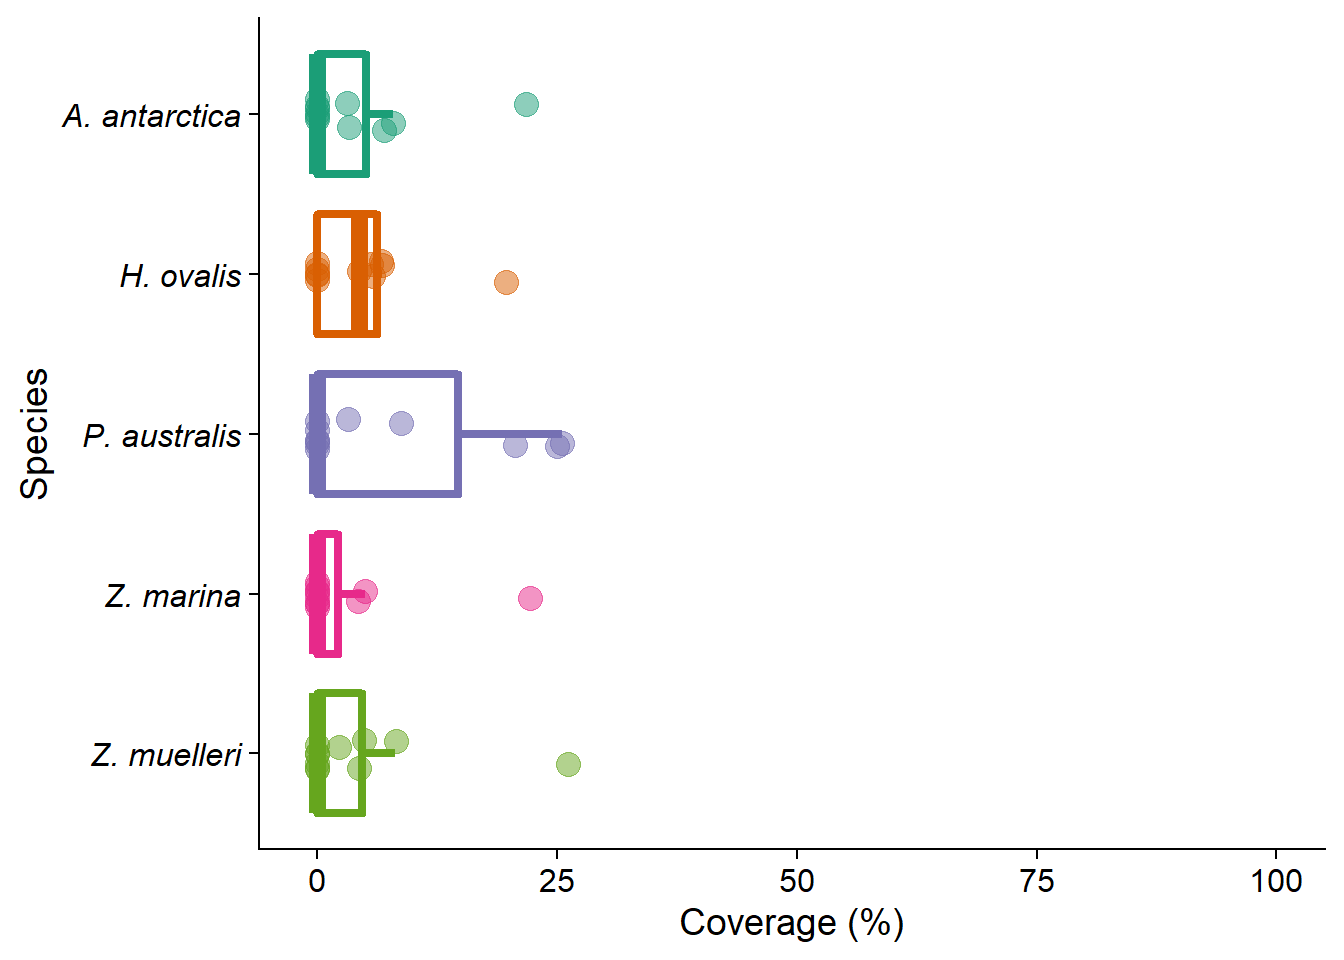
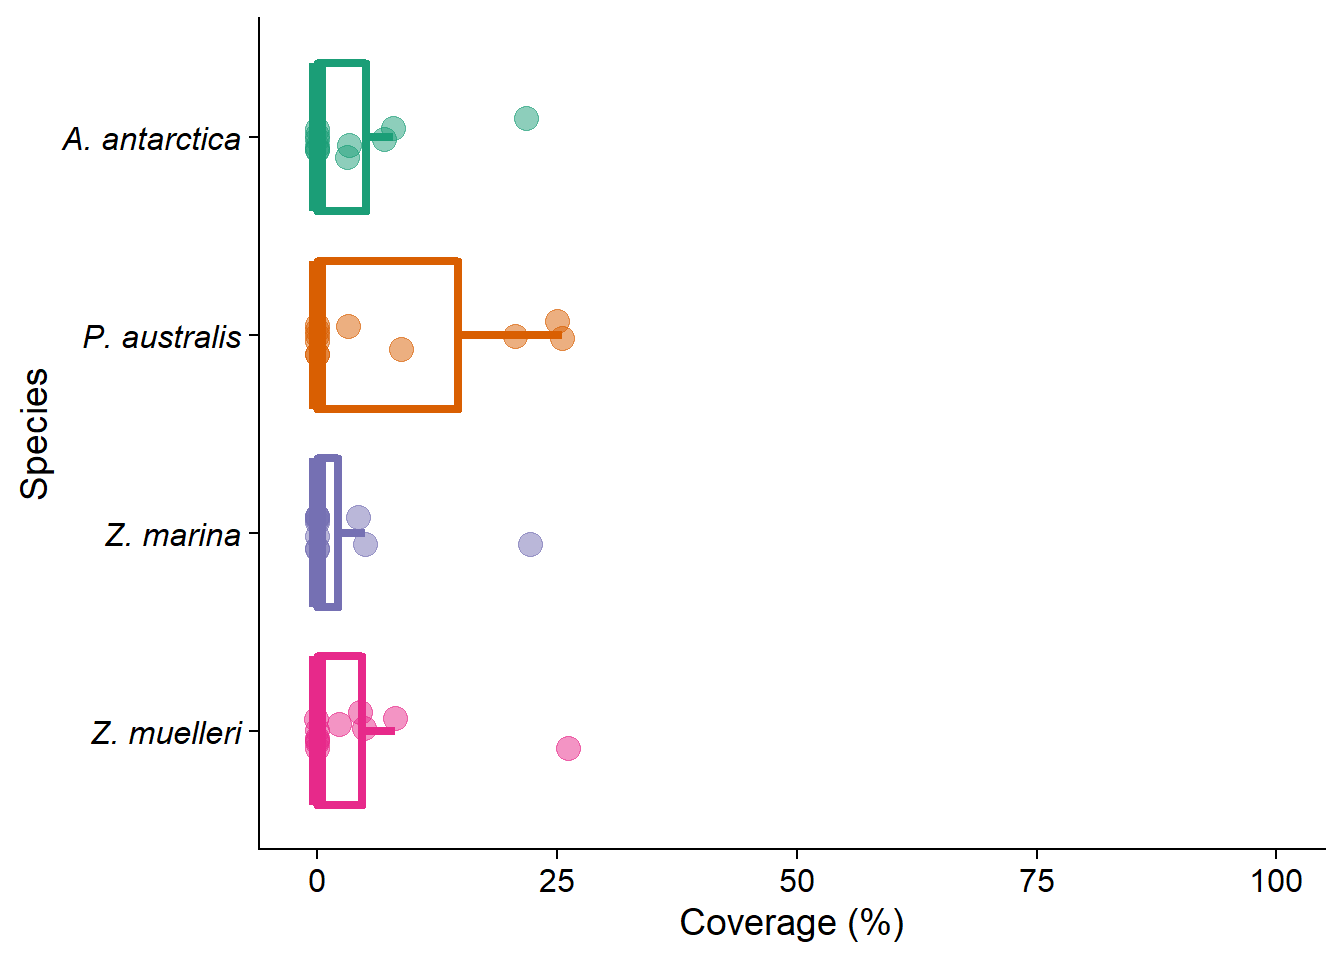
Build site.

diff --git a/docs/GeneLossComparisonReads.html b/docs/GeneLossComparisonReads.html
@@ -385,7 +385,7 @@ div.tocify {
 <div class="tab-content">
 <div id="summary" class="tab-pane fade in active">
 <p>
-<strong>Last updated:</strong> 2022-02-23
+<strong>Last updated:</strong> 2022-03-08
 </p>
 <p>
 <strong>Checks:</strong> <span class="glyphicon glyphicon-ok text-success" aria-hidden="true"></span> 7 <span class="glyphicon glyphicon-exclamation-sign text-danger" aria-hidden="true"></span> 0
@@ -476,16 +476,16 @@ This reproducible <a href="http://rmarkdown.rstudio.com">R Markdown</a> analysis
 <div class="panel panel-default">
 <div class="panel-heading">
 <p class="panel-title">
-<a data-toggle="collapse" data-parent="#workflowr-checks" href="#strongRepositoryversionstrongahrefhttpsgithubcomphilippbayerAmphibolisPosidoniaComparisontree9b5946749e9a370a7bd1d185df8df76ba424af1ftargetblank9b59467a"> <span class="glyphicon glyphicon-ok text-success" aria-hidden="true"></span> <strong>Repository version:</strong> <a href="https://github.com/philippbayer/Amphibolis_Posidonia_Comparison/tree/9b5946749e9a370a7bd1d185df8df76ba424af1f" target="_blank">9b59467</a> </a>
+<a data-toggle="collapse" data-parent="#workflowr-checks" href="#strongRepositoryversionstrongahrefhttpsgithubcomphilippbayerAmphibolisPosidoniaComparisontree41fff3190716c5ba35958c19dfb914d7678033c7targetblank41fff31a"> <span class="glyphicon glyphicon-ok text-success" aria-hidden="true"></span> <strong>Repository version:</strong> <a href="https://github.com/philippbayer/Amphibolis_Posidonia_Comparison/tree/41fff3190716c5ba35958c19dfb914d7678033c7" target="_blank">41fff31</a> </a>
 </p>
 </div>
[2 lines of base64/hex data omitted]
 <div class="panel-body">
 <p>
 Great! You are using Git for version control. Tracking code development and connecting the code version to the results is critical for reproducibility.
 </p>
 <p>
-The results in this page were generated with repository version <a href="https://github.com/philippbayer/Amphibolis_Posidonia_Comparison/tree/9b5946749e9a370a7bd1d185df8df76ba424af1f" target="_blank">9b59467</a>. See the <em>Past versions</em> tab to see a history of the changes made to the R Markdown and HTML files.
+The results in this page were generated with repository version <a href="https://github.com/philippbayer/Amphibolis_Posidonia_Comparison/tree/41fff3190716c5ba35958c19dfb914d7678033c7" target="_blank">41fff31</a>. See the <em>Past versions</em> tab to see a history of the changes made to the R Markdown and HTML files.
 </p>
 <p>
 Note that you need to be careful to ensure that all relevant files for the analysis have been committed to Git prior to generating the results (you can use <code>wflow_publish</code> or <code>wflow_git_commit</code>). workflowr only checks the R Markdown file, but you know if there are other scripts or data files that it depends on. Below is the status of the Git repository when the results were generated:
@@ -495,7 +495,16 @@ Ignored files:
     Ignored:    .Rhistory
     Ignored:    .Rproj.user/
     Ignored:    analysis/OTT.nb.html
+    Ignored:    analysis/plotNDH.nb.html
     Ignored:    analysis/plotRgenes.nb.html
+
+Untracked files:
+    Untracked:  analysis/plotNDH.Rmd
+    Untracked:  output/patched_gene_loss.png
+
+Unstaged changes:
+    Modified:   analysis/Orthofinder.Rmd
+    Modified:   analysis/index.Rmd
 
 </code></pre>
 <p>
@@ -534,6 +543,57 @@ Message
 </tr>
 </thead>
 <tbody>
+<tr>
+<td>
+Rmd
+</td>
+<td>
+<a href="https://github.com/philippbayer/Amphibolis_Posidonia_Comparison/blob/41fff3190716c5ba35958c19dfb914d7678033c7/analysis/GeneLossComparisonReads.Rmd" target="_blank">41fff31</a>
+</td>
+<td>
+Philipp Bayer
+</td>
+<td>
+2022-03-08
+</td>
+<td>
+workflowr::wflow_publish(files = “analysis/GeneLossComparisonReads.Rmd”)
+</td>
+</tr>
+<tr>
+<td>
+html
+</td>
+<td>
+<a href="https://rawcdn.githack.com/philippbayer/Amphibolis_Posidonia_Comparison/2243fa6f83122faa64f19637843dc53e8297085b/docs/GeneLossComparisonReads.html" target="_blank">2243fa6</a>
+</td>
+<td>
+Philipp Bayer
+</td>
+<td>
+2022-02-23
+</td>
+<td>
+muh files
+</td>
+</tr>
+<tr>
+<td>
+html
+</td>
+<td>
+<a href="https://rawcdn.githack.com/philippbayer/Amphibolis_Posidonia_Comparison/1a19f93c6cc6e16710da94489015d41577864bff/docs/GeneLossComparisonReads.html" target="_blank">1a19f93</a>
+</td>
+<td>
+Philipp Bayer
+</td>
+<td>
+2022-02-23
+</td>
+<td>
+Build site.
+</td>
+</tr>
 <tr>
 <td>
 html
@@ -714,7 +774,8 @@ Attaching package: &#39;patchwork&#39;</code></pre>
                     &quot;FLP&quot;,            3.2,          8.77,                  4.42,            0,          0
              )</code></pre>
 <pre class="r"><code>stomata_long &lt;- stomata %&gt;% pivot_longer(-Gene.symbol, values_to = &#39;Coverage&#39;, names_to=&#39;Species&#39;) %&gt;% 
-  mutate(Species = gsub(&#39;\\.\\.&#39;, &#39;. &#39;, Species))</code></pre>
+  mutate(Species = gsub(&#39;\\.\\.&#39;, &#39;. &#39;, Species)) %&gt;% 
+  filter(Species != &#39;H. ovalis&#39;)</code></pre>
 <pre class="r"><code>stom_p &lt;- stomata_long %&gt;% ggplot(aes(x=forcats::fct_rev(Species), y=Coverage, fill=Species, color=Species)) + 
   geom_boxplot(
     aes(fill = after_scale(colorspace::lighten(fill, .9))),
@@ -731,6 +792,27 @@ Attaching package: &#39;patchwork&#39;</code></pre>
 
 stom_p</code></pre>
 <p><img src="figure/GeneLossComparisonReads.Rmd/unnamed-chunk-3-1.png" width="672" style="display: block; margin: auto;" /></p>
+<pre class="r"><code>label &lt;- stomata_long #%&gt;% mutate(Gene.symbol = stringr::str_to_lower(Gene.symbol)) 
+label &lt;- label %&gt;% 
+  mutate(mylabel = case_when(Coverage &gt;= 100 ~ &#39;&#39;,
+                             Coverage == 0 ~ &#39;&#39;,
+                                    TRUE ~ as.character(Coverage)))
+
+
+stom_heat &lt;- stomata_long %&gt;% 
+  #mutate(Gene.symbol = stringr::str_to_lower(Gene.symbol)) %&gt;% 
+  ggplot(aes(x=Species, y=factor(Gene.symbol, level=rev(unique(Gene.symbol))), fill=Coverage)) + 
+  geom_tile(alpha=0.9, color=&#39;white&#39;) + 
+  geom_text(aes(label=mylabel), data=label, size=3.5) + 
+  theme(axis.text.y = element_text(face = &quot;italic&quot;),
+        axis.text.x = element_text(face=&#39;italic&#39;),
+        axis.title.x = element_blank(),
+        axis.title.y = element_blank(),
+        legend.position = &quot;none&quot;) +
+  scale_fill_continuous(limits=c(0,100))
+
+stom_heat</code></pre>
+<p><img src="figure/GeneLossComparisonReads.Rmd/unnamed-chunk-4-1.png" width="672" style="display: block; margin: auto;" /></p>
 </div>
 <div id="ethylene" class="section level1">
 <h1>Ethylene</h1>
@@ -763,7 +845,8 @@ stom_p</code></pre>
                     &quot;MYC4&quot;,              0,          3.84,       8.19,        20.96,      11.75
               )</code></pre>
 <pre class="r"><code>ethylene_long &lt;- ethylene %&gt;% pivot_longer(-Gene.symbol, values_to = &#39;Coverage&#39;, names_to=&#39;Species&#39;) %&gt;% 
-  mutate(Species = gsub(&#39;\\.\\.&#39;, &#39;. &#39;, Species))</code></pre>
+  mutate(Species = gsub(&#39;\\.\\.&#39;, &#39;. &#39;, Species)) %&gt;% 
+  filter(Species != &#39;H. ovalis&#39;)</code></pre>
 <pre class="r"><code>eth_p &lt;- ethylene_long %&gt;% ggplot(aes(x=forcats::fct_rev(Species), y=Coverage, fill=Species, color=Species)) + 
   geom_boxplot(
     aes(fill = after_scale(colorspace::lighten(fill, .9))),
@@ -779,7 +862,22 @@ stom_p</code></pre>
   coord_flip() +
   xlab(&#39;Species&#39;)
 eth_p</code></pre>
-<p><img src="figure/GeneLossComparisonReads.Rmd/unnamed-chunk-6-1.png" width="672" style="display: block; margin: auto;" /> # NDH genes</p>
+<p><img src="figure/GeneLossComparisonReads.Rmd/unnamed-chunk-7-1.png" width="672" style="display: block; margin: auto;" /></p>
+<pre class="r"><code>eth_heat &lt;- ethylene_long %&gt;% 
+  dplyr::filter(Gene.symbol != &#39;ndhB-2&#39;) %&gt;% 
+  mutate(Gene.symbol = stringr::str_to_lower(Gene.symbol)) %&gt;% 
+  ggplot(aes(x=Species, y=factor(Gene.symbol, level=rev(unique(Gene.symbol))), fill=Coverage)) + 
+  geom_tile() + 
+  ylab(&#39;Gene&#39;) +
+  theme(axis.text.y = element_text(face = &quot;italic&quot;),
+        axis.text.x = element_text(face=&#39;italic&#39;)) +
+  scale_fill_continuous(limits=c(0,100))
+
+eth_heat</code></pre>
+<p><img src="figure/GeneLossComparisonReads.Rmd/unnamed-chunk-8-1.png" width="672" style="display: block; margin: auto;" /></p>
+</div>
+<div id="ndh-genes" class="section level1">
+<h1>NDH genes</h1>
 <pre class="r"><code>ndh &lt;- tibble::tribble(
          ~Gene.symbol, ~A..antarctica, ~P..australis, ~H..ovalis, ~Z..muelleri, ~Z..marina,
                &quot;NDHL&quot;,              0,             0,          0,        16.67,      16.67,
@@ -813,7 +911,8 @@ eth_p</code></pre>
                &quot;NDF5&quot;,              0,             0,          0,            0,          0
          )</code></pre>
 <pre class="r"><code>ndh_long &lt;- ndh %&gt;% pivot_longer(-Gene.symbol, values_to = &#39;Coverage&#39;, names_to=&#39;Species&#39;) %&gt;% 
-  mutate(Species = gsub(&#39;\\.\\.&#39;, &#39;. &#39;, Species))</code></pre>
+  mutate(Species = gsub(&#39;\\.\\.&#39;, &#39;. &#39;, Species)) %&gt;% 
+  filter(Species != &#39;H. ovalis&#39;)</code></pre>
 <pre class="r"><code>ndh_p &lt;- ndh_long %&gt;% ggplot(aes(x=forcats::fct_rev(Species), y=Coverage, fill=Species, color=Species)) + 
   geom_boxplot(
     aes( fill = after_scale(colorspace::lighten(fill, .9))),
@@ -829,7 +928,29 @@ eth_p</code></pre>
   coord_flip() +
   xlab(&#39;Species&#39;)
 ndh_p</code></pre>
-<p><img src="figure/GeneLossComparisonReads.Rmd/unnamed-chunk-9-1.png" width="672" style="display: block; margin: auto;" /></p>
+<p><img src="figure/GeneLossComparisonReads.Rmd/unnamed-chunk-11-1.png" width="672" style="display: block; margin: auto;" /></p>
+<pre class="r"><code>label &lt;- ndh_long
+label &lt;- label %&gt;% 
+  mutate(mylabel = case_when(Coverage &gt;= 100 ~ &#39;&#39;,
+                             Coverage == 0 ~ &#39;&#39;,
+                                    TRUE ~ as.character(Coverage)))
+
+
+ndh_heat &lt;- ndh_long %&gt;% 
+  dplyr::filter(Gene.symbol != &#39;ndhB-2&#39;) %&gt;% 
+  mutate(Gene.symbol = stringr::str_to_lower(Gene.symbol)) %&gt;% 
+  ggplot(aes(x=Species, y=factor(Gene.symbol, level=rev(unique(Gene.symbol))), fill=Coverage)) + 
+  geom_tile() + 
+  geom_tile(alpha=0.9, color=&#39;white&#39;) + 
+  #geom_text(data=label, aes(label=mylabel), size=3.5) +
+  theme(axis.text.y = element_text(face = &quot;italic&quot;),
+        axis.text.x = element_text(face = &#39;italic&#39;),
+        axis.title.x = element_blank(),
+        axis.title.y = element_blank())  +
+  scale_fill_continuous(limits=c(0,100))
+
+ndh_heat</code></pre>
+<p><img src="figure/GeneLossComparisonReads.Rmd/unnamed-chunk-12-1.png" width="960" style="display: block; margin: auto;" /></p>
 <p>The following data is slightly different because it compares lengths of annotated genes in the chloroplast assembly.</p>
 <pre class="r"><code>ndh_chloro &lt;- tibble::tribble(
   ~Gene.symbol, ~A..antarctica, ~H..ovalis, ~P..australis, ~Z..marina, ~Z..muelleri,
@@ -847,7 +968,8 @@ ndh_p</code></pre>
         &quot;ndhK&quot;,             55,          0,         109.3,      109.8,        109.8
   )</code></pre>
 <pre class="r"><code>ndh_chl_long &lt;- ndh_chloro %&gt;% pivot_longer(-Gene.symbol, values_to = &#39;Coverage&#39;, names_to=&#39;Species&#39;) %&gt;% 
-  mutate(Species = gsub(&#39;\\.\\.&#39;, &#39;. &#39;, Species))</code></pre>
+  mutate(Species = gsub(&#39;\\.\\.&#39;, &#39;. &#39;, Species)) %&gt;% 
+  filter(Species != &#39;H. ovalis&#39;)</code></pre>
 <p>Stylistic choice - if the new gene is longer than the Arabidopsis one, set to 100%.</p>
 <pre class="r"><code>ndh_chl_p &lt;- ndh_chl_long %&gt;%
   mutate(Coverage = case_when(Coverage &gt; 100 ~ 100,
@@ -867,7 +989,30 @@ ndh_p</code></pre>
   xlab(&#39;Species&#39;) +
   coord_flip()
 ndh_chl_p</code></pre>
-<p><img src="figure/GeneLossComparisonReads.Rmd/unnamed-chunk-12-1.png" width="672" style="display: block; margin: auto;" /></p>
+<p><img src="figure/GeneLossComparisonReads.Rmd/unnamed-chunk-15-1.png" width="672" style="display: block; margin: auto;" /></p>
+<pre class="r"><code>label &lt;- ndh_chl_long %&gt;% filter(Gene.symbol != &#39;ndhB-2&#39;)
+label &lt;- label %&gt;% 
+  mutate(mylabel = case_when(Coverage &gt;= 100 ~ &#39;&#39;,
+                             Coverage == 0 ~ &#39;&#39;,
+                                    TRUE ~ as.character(Coverage)))
+
+ndh_chl_heat &lt;- ndh_chl_long %&gt;% 
+  dplyr::filter(Gene.symbol != &#39;ndhB-2&#39;) %&gt;% 
+  mutate(Coverage = case_when(Coverage &gt; 100 ~ 100,
+                              TRUE ~ Coverage)) %&gt;% 
+  ggplot(aes(x=Species, y=factor(Gene.symbol, level=rev(unique(Gene.symbol))), fill=Coverage)) + 
+  geom_tile(alpha=0.9, color=&#39;white&#39;) + 
+  geom_text(data=label, aes(label=mylabel), size=3.5) +
+  ylab(&#39;Gene&#39;) +
+  theme(axis.text.y = element_text(face = &quot;italic&quot;),
+        axis.text.x = element_text(face = &#39;italic&#39;),
+        axis.title.x = element_blank(),
+        axis.title.y = element_blank(),
+        legend.position = &quot;none&quot;) +
+  scale_fill_continuous(limits=c(0,100))
+  
+ndh_chl_heat</code></pre>
+<p><img src="figure/GeneLossComparisonReads.Rmd/unnamed-chunk-16-1.png" width="672" style="display: block; margin: auto;" /></p>
 </div>
 <div id="all-together" class="section level1">
 <h1>all together</h1>
@@ -879,7 +1024,16 @@ ndh_chl_p</code></pre>
 #                                         axis.ticks.y = element_blank(),
 #                                         axis.title.y = element_blank() )
 patchwork+ plot_annotation(tag_levels = &quot;A&quot;)</code></pre>
-<p><img src="figure/GeneLossComparisonReads.Rmd/unnamed-chunk-13-1.png" width="960" style="display: block; margin: auto;" /></p>
+<p><img src="figure/GeneLossComparisonReads.Rmd/unnamed-chunk-17-1.png" width="960" style="display: block; margin: auto;" /></p>
+<pre class="r"><code>patchwork &lt;- (eth_p + ndh_chl_heat)/
+ (ndh_p + stom_heat  )
+#patchwork[[2]] = patchwork[[2]] + theme(axis.title.x = element_blank() )
+#patchwork[[1]] = patchwork[[1]] + theme(axis.title.x = element_blank() )
+puh &lt;- patchwork+ plot_annotation(tag_levels = &quot;A&quot;) #+ plot_layout(guides=&#39;none&#39;)
+puh</code></pre>
+<p><img src="figure/GeneLossComparisonReads.Rmd/unnamed-chunk-18-1.png" width="672" style="display: block; margin: auto;" /></p>
+<pre class="r"><code>cowplot::save_plot(filename = &#39;output/patched_gene_loss.png&#39;, plot = puh, base_height = 7)</code></pre>
+<p>Hmmmmmmmmm</p>
 <br>
 <p>
 <button type="button" class="btn btn-default btn-workflowr btn-workflowr-sessioninfo" data-toggle="collapse" data-target="#workflowr-sessioninfo" style="display: block;">
